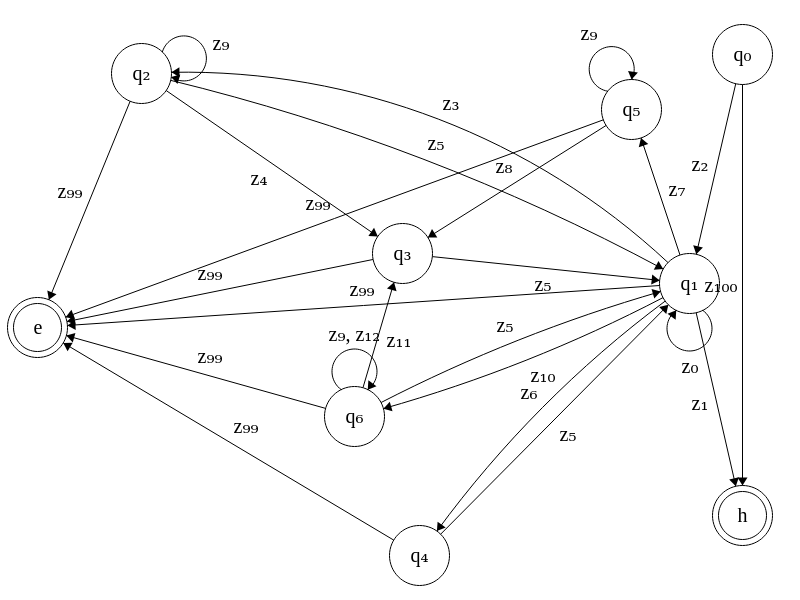
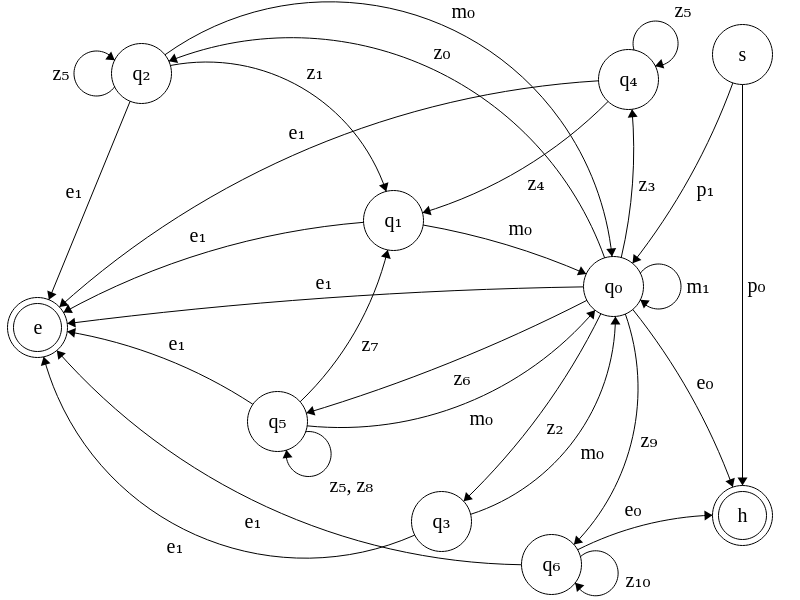
Update schema, states, events

diff --git a/src/com/mebr0/util/Serializer.java b/src/com/mebr0/util/Serializer.java
@@ -9,13 +9,17 @@ import java.util.List;
  * Files for saving stored in {@link #PREFIX} directory
  *
  * @author A.Yergali
- * @version 1.0
+ * @version 2.0
  */
-public class Serializer {
+public abstract class Serializer {
 
     private static final String PREFIX = "db/";
 
     private static final Logger LOG = Logger.getInstance();
+
+    private Serializer() {
+        throw new AssertionError("No " + getClass().getSimpleName() + " instances for you!");
+    }
 
     public static boolean serialize(String file, Object object) {
         try (ObjectOutputStream stream = new ObjectOutputStream(new FileOutputStream(PREFIX + file))) {

diff --git a/src/com/mebr0/util/Scanner.java b/src/com/mebr0/util/Scanner.java
@@ -13,9 +13,9 @@ import static com.mebr0.util.Printer.out;
  * Must be closed in the end of program
  *
  * @author A.Yergali
- * @version 1.3
+ * @version 2.0
  */
-public class Scanner {
+public abstract class Scanner {
 
     private static final BufferedReader input;
 
@@ -23,6 +23,10 @@ public class Scanner {
 
     public static final int ERROR = -1;
     private static final String PIN_REGEX = "[0-9]{4}";
+
+    private Scanner() {
+        throw new AssertionError("No " + getClass().getSimpleName() + " instances for you!");
+    }
 
     static {
         input = new BufferedReader(new InputStreamReader(System.in));

diff --git a/src/com/mebr0/util/Printer.java b/src/com/mebr0/util/Printer.java
@@ -7,9 +7,13 @@ import java.util.stream.IntStream;
  * Only static methods
  *
  * @author A.Yergali
- * @version 1.0
+ * @version 2.0
  */
-public class Printer {
+public abstract class Printer {
+
+    private Printer() {
+        throw new AssertionError("No " + getClass().getSimpleName() + " instances for you!");
+    }
 
     public static void options(String... texts) {
         IntStream.range(0, texts.length).

diff --git a/src/com/mebr0/atm/Machine.java b/src/com/mebr0/atm/Machine.java
@@ -9,7 +9,7 @@ import com.mebr0.util.Logger;
  * Class for imitating ATM based on FSM {@link State}s
  *
  * @author A.Yergali
- * @version 1.0
+ * @version 2.0
  */
 public class Machine {
 

diff --git a/README.md b/README.md
@@ -9,33 +9,48 @@ Written on Java with Polymorphism form (states == classes)
 
 #### States
 
+##### Start
+* s - request PIN
+
+##### Finish
 * h - session finished
 * e - session finished with error
-* q<sub>0</sub> - request PIN
-* q<sub>1</sub> - choose option in main menu
+
+##### Intermediate
+* q<sub>0</sub> - choose option in main menu
+* q<sub>1</sub> - making transaction
 * q<sub>2</sub> - enter sum to withdraw
-* q<sub>3</sub> - making transaction
-* q<sub>4</sub> - output account cash
-* q<sub>5</sub> - enter cash to replenish
-* q<sub>6</sub> - enter sum and account to transfer
+* q<sub>3</sub> - output account cash
+* q<sub>4</sub> - enter cash to replenish
+* q<sub>5</sub> - enter sum and account to transfer
+* q<sub>6</sub> - enter a pin to change
 
 #### Actions
 
-* z<sub>0</sub> - choosing invalid option
-* z<sub>1</sub> - finishing session
-* z<sub>2</sub> - correct PIN
-* z<sub>3</sub> - choosing to withdraw cash
-* z<sub>4</sub> - asserting withdrawing
-* z<sub>5</sub> - returning to menu
-* z<sub>6</sub> - checking account
-* z<sub>7</sub> - choosing to replenish cash
-* z<sub>8</sub> - asserting replenish
-* z<sub>9</sub> - enter sum again
-* z<sub>10</sub> - choosing to transfer sum
-* z<sub>11</sub> - asserting transfer
-* z<sub>12</sub> - enter account again
-* z<sub>99</sub> - system error
-* z<sub>100</sub> - wrong PIN
+#### Pins
+* p<sub>0</sub> - wrong PIN
+* p<sub>1</sub> - correct PIN
+
+#### Menu
+* m<sub>0</sub> - returning to menu
+* m<sub>1</sub> - choosing invalid option at menu
+
+#### Finishing
+* e<sub>0</sub> - finishing session
+* e<sub>1</sub> - system error
+
+#### Other
+* z<sub>0</sub> - choosing to withdraw cash
+* z<sub>1</sub> - asserting withdrawing
+* z<sub>2</sub> - checking account
+* z<sub>3</sub> - choosing to replenish cash
+* z<sub>4</sub> - asserting replenish
+* z<sub>5</sub> - enter sum again
+* z<sub>6</sub> - choosing to transfer sum
+* z<sub>7</sub> - asserting transfer
+* z<sub>8</sub> - enter account again
+* z<sub>9</sub> - choosing change pin
+* z<sub>10</sub> - enter a pin again (wrong pin)
 
 #### JSON schema
 
